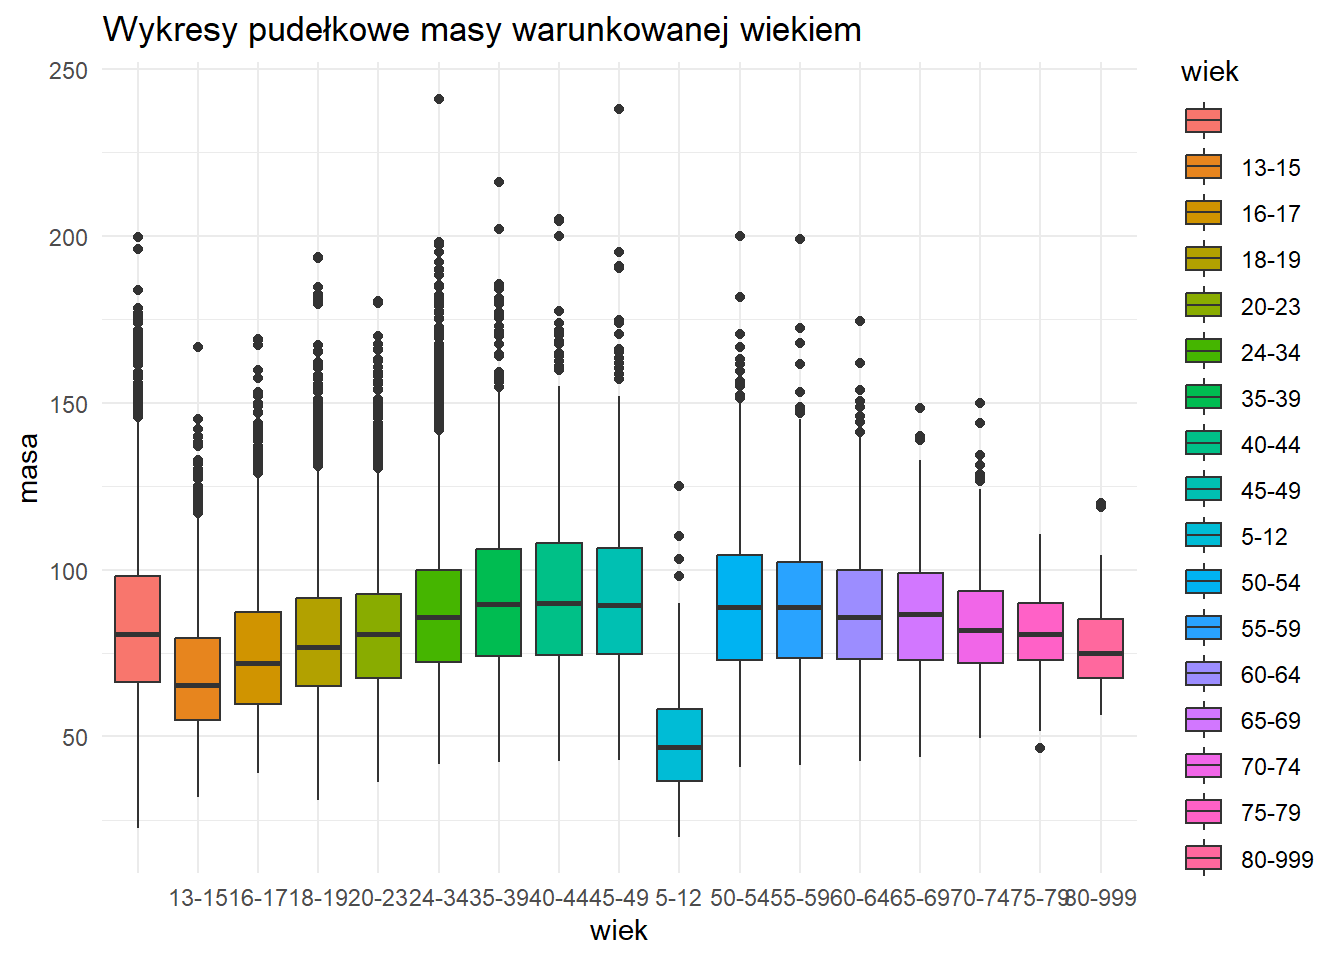
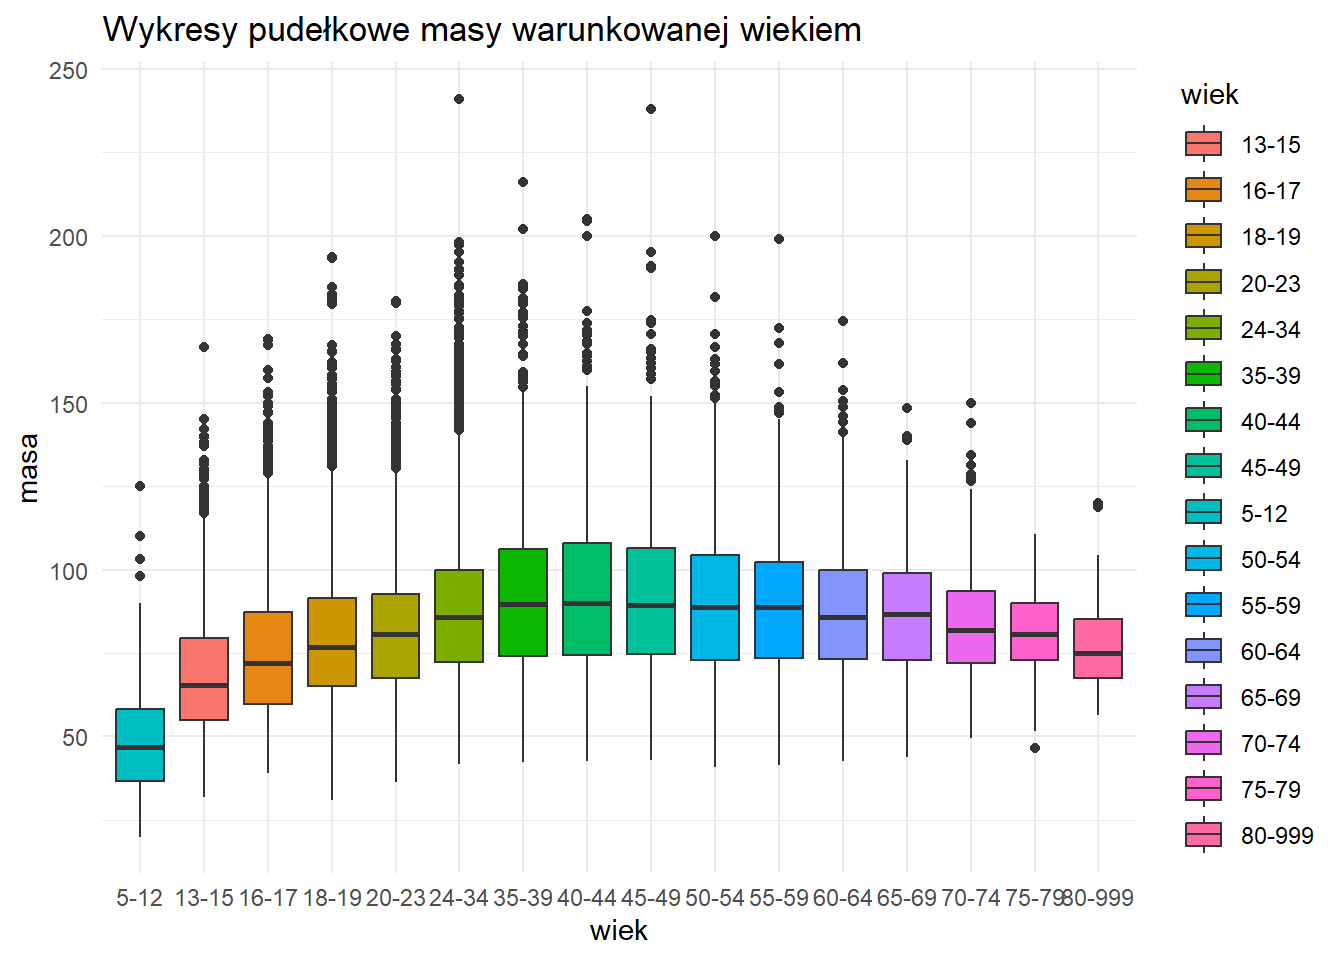
Uporządkowanie wieku

diff --git a/Raport_quatro/raport.html b/Raport_quatro/raport.html
@@ -142,7 +142,7 @@ pre > code.sourceCode > span > a:first-child::before { text-decoration: underlin
 <div class="cell" data-layout-align="center">
 <div class="sourceCode cell-code" id="cb2"><pre class="sourceCode r code-with-copy"><code class="sourceCode r"><span id="cb2-1"><a href="#cb2-1" aria-hidden="true" tabindex="-1"></a>probka <span class="ot">&lt;-</span> <span class="fu">read.csv</span>(<span class="st">"../powerlifting.csv"</span>)</span></code><button title="Copy to Clipboard" class="code-copy-button"><i class="bi"></i></button></pre></div>
 </div>
-<p>Będziemy poddawać analizie próbkę o długości 50 000 obserwacji.</p>
+<p>Będziemy poddawać analizie próbkę o długości 49 999 obserwacji.</p>
 <div class="cell" data-layout-align="center">
 <div class="sourceCode cell-code" id="cb3"><pre class="sourceCode r code-with-copy"><code class="sourceCode r"><span id="cb3-1"><a href="#cb3-1" aria-hidden="true" tabindex="-1"></a><span class="fu">nrow</span>(probka)</span></code><button title="Copy to Clipboard" class="code-copy-button"><i class="bi"></i></button></pre></div>
 <div class="cell-output cell-output-stdout">
@@ -206,7 +206,7 @@ pre > code.sourceCode > span > a:first-child::before { text-decoration: underlin
 </div>
 <section id="transformacje-danych" class="level2">
 <h2 class="anchored" data-anchor-id="transformacje-danych">2.1 Transformacje danych</h2>
-<p>Interesować nas będą tylko zmienne <strong>AgeClass, “Sex”BodyWeightKg, Best3BenchKg, Best3DeadliftKg, Best3SquatKg, TotalKg</strong></p>
+<p>Interesować nas będą tylko zmienne <strong>AgeClass, Sex, BodyweightKg, TotalKg</strong></p>
 <div class="cell" data-layout-align="center">
 <div class="sourceCode cell-code" id="cb7"><pre class="sourceCode r code-with-copy"><code class="sourceCode r"><span id="cb7-1"><a href="#cb7-1" aria-hidden="true" tabindex="-1"></a>probka <span class="ot">&lt;-</span> probka[, <span class="fu">c</span>(<span class="st">"AgeClass"</span>, <span class="st">"Sex"</span>, <span class="st">"BodyweightKg"</span>, <span class="st">"TotalKg"</span>)]</span>
 <span id="cb7-2"><a href="#cb7-2" aria-hidden="true" tabindex="-1"></a></span>
@@ -222,9 +222,9 @@ pre > code.sourceCode > span > a:first-child::before { text-decoration: underlin
                                        NA's   :644      NA's   :3339    </code></pre>
 </div>
 </div>
-<p>Napotykamy pierwszy problem. Wszystkie zmienne są typu <code>character</code>, gdy powinny być typu</p>
+<p>Napotykamy pierwszy problem. Typy niektórych zmiennych są nieodpowiednie. Prawidłowe typy to</p>
 <ul>
-<li><p><code>numeric</code> dla <strong>BodyweightKg, Best3BenchKg, Best3SquatKg, Best3DeadliftKg, TotalKg</strong></p></li>
+<li><p><code>numeric</code> dla <strong>BodyweightKg, TotalKg</strong></p></li>
 <li><p><code>factor</code> dla <strong>AgeClass</strong> oraz <strong>Sex</strong></p></li>
 </ul>
 <p>Dokonajmy więc konwersji</p>
@@ -272,24 +272,28 @@ pre > code.sourceCode > span > a:first-child::before { text-decoration: underlin
 <summary>Code</summary>
 <div class="sourceCode cell-code" id="cb14"><pre class="sourceCode r code-with-copy"><code class="sourceCode r"><span id="cb14-1"><a href="#cb14-1" aria-hidden="true" tabindex="-1"></a><span class="co"># Plot normalized histograms for each level of the "wiek" factor</span></span>
 <span id="cb14-2"><a href="#cb14-2" aria-hidden="true" tabindex="-1"></a></span>
-<span id="cb14-3"><a href="#cb14-3" aria-hidden="true" tabindex="-1"></a><span class="fu">ggplot</span>(probka, <span class="fu">aes</span>(<span class="at">x =</span> wiek, <span class="at">y =</span> ..count.., <span class="at">fill =</span> ..count..)) <span class="sc">+</span></span>
-<span id="cb14-4"><a href="#cb14-4" aria-hidden="true" tabindex="-1"></a>  <span class="fu">geom_bar</span>(<span class="at">color =</span> <span class="st">"black"</span>, <span class="at">alpha =</span> <span class="fl">0.7</span>, <span class="at">position =</span> <span class="st">"identity"</span>) <span class="sc">+</span></span>
-<span id="cb14-5"><a href="#cb14-5" aria-hidden="true" tabindex="-1"></a>  <span class="fu">ggtitle</span>(<span class="st">"Histogram - Wiek"</span>) <span class="sc">+</span> </span>
-<span id="cb14-6"><a href="#cb14-6" aria-hidden="true" tabindex="-1"></a>  <span class="fu">theme_minimal</span>()</span>
-<span id="cb14-7"><a href="#cb14-7" aria-hidden="true" tabindex="-1"></a><span class="fu">ggplot</span>(probka, <span class="fu">aes</span>(<span class="at">x =</span> plec, <span class="at">y =</span> ..count.., <span class="at">fill =</span> ..count..)) <span class="sc">+</span></span>
-<span id="cb14-8"><a href="#cb14-8" aria-hidden="true" tabindex="-1"></a>  <span class="fu">geom_bar</span>(<span class="at">color =</span> <span class="st">"black"</span>, <span class="at">alpha =</span> <span class="fl">0.7</span>, <span class="at">position =</span> <span class="st">"identity"</span>) <span class="sc">+</span></span>
-<span id="cb14-9"><a href="#cb14-9" aria-hidden="true" tabindex="-1"></a>  <span class="fu">ggtitle</span>(<span class="st">"Histogram - Wiek"</span>) <span class="sc">+</span> </span>
+<span id="cb14-3"><a href="#cb14-3" aria-hidden="true" tabindex="-1"></a>desired_order <span class="ot">=</span> <span class="fu">c</span>(<span class="st">"5-12"</span>, <span class="st">"13-15"</span>, <span class="st">"16-17"</span>, <span class="st">"18-19"</span>, <span class="st">"20-23"</span>, <span class="st">"24-34"</span>, <span class="st">"35-39"</span>, <span class="st">"40-44"</span>, <span class="st">"45-49"</span>, <span class="st">"50-54"</span>, <span class="st">"55-59"</span>, <span class="st">"60-64"</span>, <span class="st">"65-69"</span>, <span class="st">"70-74"</span>, <span class="st">"75-79"</span>, <span class="st">"80-999"</span>)</span>
+<span id="cb14-4"><a href="#cb14-4" aria-hidden="true" tabindex="-1"></a></span>
+<span id="cb14-5"><a href="#cb14-5" aria-hidden="true" tabindex="-1"></a></span>
+<span id="cb14-6"><a href="#cb14-6" aria-hidden="true" tabindex="-1"></a><span class="fu">ggplot</span>(probka, <span class="fu">aes</span>(<span class="at">x =</span> wiek, <span class="at">y =</span> ..count.., <span class="at">fill =</span> ..count..)) <span class="sc">+</span></span>
+<span id="cb14-7"><a href="#cb14-7" aria-hidden="true" tabindex="-1"></a>  <span class="fu">geom_bar</span>(<span class="at">color =</span> <span class="st">"black"</span>, <span class="at">alpha =</span> <span class="fl">0.7</span>, <span class="at">position =</span> <span class="st">"identity"</span>) <span class="sc">+</span></span>
+<span id="cb14-8"><a href="#cb14-8" aria-hidden="true" tabindex="-1"></a>  <span class="fu">labs</span>(<span class="at">title =</span> <span class="st">"Histogram - Wiek"</span>, <span class="at">x =</span> <span class="st">"wiek"</span>, <span class="at">y =</span> <span class="st">"ilość"</span>) <span class="sc">+</span></span>
+<span id="cb14-9"><a href="#cb14-9" aria-hidden="true" tabindex="-1"></a>  <span class="fu">scale_x_discrete</span>(<span class="at">limits =</span> desired_order) <span class="sc">+</span> </span>
 <span id="cb14-10"><a href="#cb14-10" aria-hidden="true" tabindex="-1"></a>  <span class="fu">theme_minimal</span>()</span>
-<span id="cb14-11"><a href="#cb14-11" aria-hidden="true" tabindex="-1"></a><span class="fu">ggplot</span>(probka, <span class="fu">aes</span>(<span class="at">x =</span> masa, <span class="at">y =</span> ..density.., <span class="at">fill =</span> ..density..)) <span class="sc">+</span></span>
-<span id="cb14-12"><a href="#cb14-12" aria-hidden="true" tabindex="-1"></a>  <span class="fu">geom_histogram</span>(<span class="at">binwidth =</span> <span class="dv">7</span>, <span class="at">color =</span> <span class="st">"black"</span>, <span class="at">alpha =</span> <span class="fl">0.7</span>, <span class="at">position =</span> <span class="st">"identity"</span>) <span class="sc">+</span></span>
-<span id="cb14-13"><a href="#cb14-13" aria-hidden="true" tabindex="-1"></a>  <span class="fu">ggtitle</span>(<span class="st">"Histogram - Masa"</span>) <span class="sc">+</span></span>
-<span id="cb14-14"><a href="#cb14-14" aria-hidden="true" tabindex="-1"></a>  <span class="fu">theme_minimal</span>() <span class="sc">+</span></span>
-<span id="cb14-15"><a href="#cb14-15" aria-hidden="true" tabindex="-1"></a>  <span class="fu">scale_y_continuous</span>(<span class="at">labels =</span> scales<span class="sc">::</span><span class="fu">percent_format</span>(<span class="at">scale =</span> <span class="dv">1</span>))</span>
-<span id="cb14-16"><a href="#cb14-16" aria-hidden="true" tabindex="-1"></a><span class="fu">ggplot</span>(probka, <span class="fu">aes</span>(<span class="at">x =</span> total, <span class="at">y =</span> ..density.., <span class="at">fill =</span> ..density..)) <span class="sc">+</span></span>
-<span id="cb14-17"><a href="#cb14-17" aria-hidden="true" tabindex="-1"></a>  <span class="fu">geom_histogram</span>(<span class="at">binwidth =</span> <span class="dv">20</span>, <span class="at">color =</span> <span class="st">"black"</span>, <span class="at">alpha =</span> <span class="fl">0.7</span>, <span class="at">position =</span> <span class="st">"identity"</span>) <span class="sc">+</span></span>
-<span id="cb14-18"><a href="#cb14-18" aria-hidden="true" tabindex="-1"></a>  <span class="fu">ggtitle</span>(<span class="st">"Histogram - Total"</span>) <span class="sc">+</span></span>
-<span id="cb14-19"><a href="#cb14-19" aria-hidden="true" tabindex="-1"></a>  <span class="fu">theme_minimal</span>() <span class="sc">+</span></span>
-<span id="cb14-20"><a href="#cb14-20" aria-hidden="true" tabindex="-1"></a>  <span class="fu">scale_y_continuous</span>(<span class="at">labels =</span> scales<span class="sc">::</span><span class="fu">percent_format</span>(<span class="at">scale =</span> <span class="dv">1</span>))</span></code><button title="Copy to Clipboard" class="code-copy-button"><i class="bi"></i></button></pre></div>
+<span id="cb14-11"><a href="#cb14-11" aria-hidden="true" tabindex="-1"></a><span class="fu">ggplot</span>(probka, <span class="fu">aes</span>(<span class="at">x =</span> plec, <span class="at">y =</span> ..count.., <span class="at">fill =</span> ..count..)) <span class="sc">+</span></span>
+<span id="cb14-12"><a href="#cb14-12" aria-hidden="true" tabindex="-1"></a>  <span class="fu">geom_bar</span>(<span class="at">color =</span> <span class="st">"black"</span>, <span class="at">alpha =</span> <span class="fl">0.7</span>, <span class="at">position =</span> <span class="st">"identity"</span>) <span class="sc">+</span></span>
+<span id="cb14-13"><a href="#cb14-13" aria-hidden="true" tabindex="-1"></a>  <span class="fu">ggtitle</span>(<span class="st">"Histogram - Wiek"</span>) <span class="sc">+</span> </span>
+<span id="cb14-14"><a href="#cb14-14" aria-hidden="true" tabindex="-1"></a>  <span class="fu">theme_minimal</span>()</span>
+<span id="cb14-15"><a href="#cb14-15" aria-hidden="true" tabindex="-1"></a><span class="fu">ggplot</span>(probka, <span class="fu">aes</span>(<span class="at">x =</span> masa, <span class="at">y =</span> ..density.., <span class="at">fill =</span> ..density..)) <span class="sc">+</span></span>
+<span id="cb14-16"><a href="#cb14-16" aria-hidden="true" tabindex="-1"></a>  <span class="fu">geom_histogram</span>(<span class="at">binwidth =</span> <span class="dv">7</span>, <span class="at">color =</span> <span class="st">"black"</span>, <span class="at">alpha =</span> <span class="fl">0.7</span>, <span class="at">position =</span> <span class="st">"identity"</span>) <span class="sc">+</span></span>
+<span id="cb14-17"><a href="#cb14-17" aria-hidden="true" tabindex="-1"></a>  <span class="fu">ggtitle</span>(<span class="st">"Histogram - Masa"</span>) <span class="sc">+</span></span>
+<span id="cb14-18"><a href="#cb14-18" aria-hidden="true" tabindex="-1"></a>  <span class="fu">theme_minimal</span>() <span class="sc">+</span></span>
+<span id="cb14-19"><a href="#cb14-19" aria-hidden="true" tabindex="-1"></a>  <span class="fu">scale_y_continuous</span>(<span class="at">labels =</span> scales<span class="sc">::</span><span class="fu">percent_format</span>(<span class="at">scale =</span> <span class="dv">1</span>))</span>
+<span id="cb14-20"><a href="#cb14-20" aria-hidden="true" tabindex="-1"></a><span class="fu">ggplot</span>(probka, <span class="fu">aes</span>(<span class="at">x =</span> total, <span class="at">y =</span> ..density.., <span class="at">fill =</span> ..density..)) <span class="sc">+</span></span>
+<span id="cb14-21"><a href="#cb14-21" aria-hidden="true" tabindex="-1"></a>  <span class="fu">geom_histogram</span>(<span class="at">binwidth =</span> <span class="dv">20</span>, <span class="at">color =</span> <span class="st">"black"</span>, <span class="at">alpha =</span> <span class="fl">0.7</span>, <span class="at">position =</span> <span class="st">"identity"</span>) <span class="sc">+</span></span>
+<span id="cb14-22"><a href="#cb14-22" aria-hidden="true" tabindex="-1"></a>  <span class="fu">ggtitle</span>(<span class="st">"Histogram - Total"</span>) <span class="sc">+</span></span>
+<span id="cb14-23"><a href="#cb14-23" aria-hidden="true" tabindex="-1"></a>  <span class="fu">theme_minimal</span>() <span class="sc">+</span></span>
+<span id="cb14-24"><a href="#cb14-24" aria-hidden="true" tabindex="-1"></a>  <span class="fu">scale_y_continuous</span>(<span class="at">labels =</span> scales<span class="sc">::</span><span class="fu">percent_format</span>(<span class="at">scale =</span> <span class="dv">1</span>))</span></code><button title="Copy to Clipboard" class="code-copy-button"><i class="bi"></i></button></pre></div>
 </details>
 <div class="cell quarto-layout-panel">
 <div class="quarto-layout-row quarto-layout-valign-top">
@@ -383,11 +387,13 @@ pre > code.sourceCode > span > a:first-child::before { text-decoration: underlin
 <div class="sourceCode cell-code" id="cb16"><pre class="sourceCode r code-with-copy"><code class="sourceCode r"><span id="cb16-1"><a href="#cb16-1" aria-hidden="true" tabindex="-1"></a><span class="fu">ggplot</span>(probka, <span class="fu">aes</span>(<span class="at">x =</span> wiek, <span class="at">y =</span> masa, <span class="at">fill =</span> wiek)) <span class="sc">+</span></span>
 <span id="cb16-2"><a href="#cb16-2" aria-hidden="true" tabindex="-1"></a>  <span class="fu">geom_boxplot</span>() <span class="sc">+</span></span>
 <span id="cb16-3"><a href="#cb16-3" aria-hidden="true" tabindex="-1"></a>  <span class="fu">ggtitle</span>(<span class="st">"Wykresy pudełkowe masy warunkowanej wiekiem"</span>) <span class="sc">+</span></span>
-<span id="cb16-4"><a href="#cb16-4" aria-hidden="true" tabindex="-1"></a>  <span class="fu">theme_minimal</span>()</span>
-<span id="cb16-5"><a href="#cb16-5" aria-hidden="true" tabindex="-1"></a><span class="fu">ggplot</span>(probka, <span class="fu">aes</span>(<span class="at">x =</span> wiek, <span class="at">y =</span> total, <span class="at">fill =</span> wiek)) <span class="sc">+</span></span>
-<span id="cb16-6"><a href="#cb16-6" aria-hidden="true" tabindex="-1"></a>  <span class="fu">geom_boxplot</span>() <span class="sc">+</span></span>
-<span id="cb16-7"><a href="#cb16-7" aria-hidden="true" tabindex="-1"></a>  <span class="fu">ggtitle</span>(<span class="st">"Wykresy pudełkowe wyniku total warunkowanego wiekiem"</span>) <span class="sc">+</span></span>
-<span id="cb16-8"><a href="#cb16-8" aria-hidden="true" tabindex="-1"></a>  <span class="fu">theme_minimal</span>()</span></code><button title="Copy to Clipboard" class="code-copy-button"><i class="bi"></i></button></pre></div>
+<span id="cb16-4"><a href="#cb16-4" aria-hidden="true" tabindex="-1"></a>  <span class="fu">scale_x_discrete</span>(<span class="at">limits =</span> desired_order) <span class="sc">+</span> </span>
+<span id="cb16-5"><a href="#cb16-5" aria-hidden="true" tabindex="-1"></a>  <span class="fu">theme_minimal</span>()</span>
+<span id="cb16-6"><a href="#cb16-6" aria-hidden="true" tabindex="-1"></a><span class="fu">ggplot</span>(probka, <span class="fu">aes</span>(<span class="at">x =</span> wiek, <span class="at">y =</span> total, <span class="at">fill =</span> wiek)) <span class="sc">+</span></span>
+<span id="cb16-7"><a href="#cb16-7" aria-hidden="true" tabindex="-1"></a>  <span class="fu">geom_boxplot</span>() <span class="sc">+</span></span>
+<span id="cb16-8"><a href="#cb16-8" aria-hidden="true" tabindex="-1"></a>  <span class="fu">ggtitle</span>(<span class="st">"Wykresy pudełkowe wyniku total warunkowanego wiekiem"</span>) <span class="sc">+</span></span>
+<span id="cb16-9"><a href="#cb16-9" aria-hidden="true" tabindex="-1"></a>  <span class="fu">scale_x_discrete</span>(<span class="at">limits =</span> desired_order) <span class="sc">+</span> </span>
+<span id="cb16-10"><a href="#cb16-10" aria-hidden="true" tabindex="-1"></a>  <span class="fu">theme_minimal</span>()</span></code><button title="Copy to Clipboard" class="code-copy-button"><i class="bi"></i></button></pre></div>
 </details>
 <div class="cell quarto-layout-panel">
 <div class="quarto-layout-row quarto-layout-valign-top">
